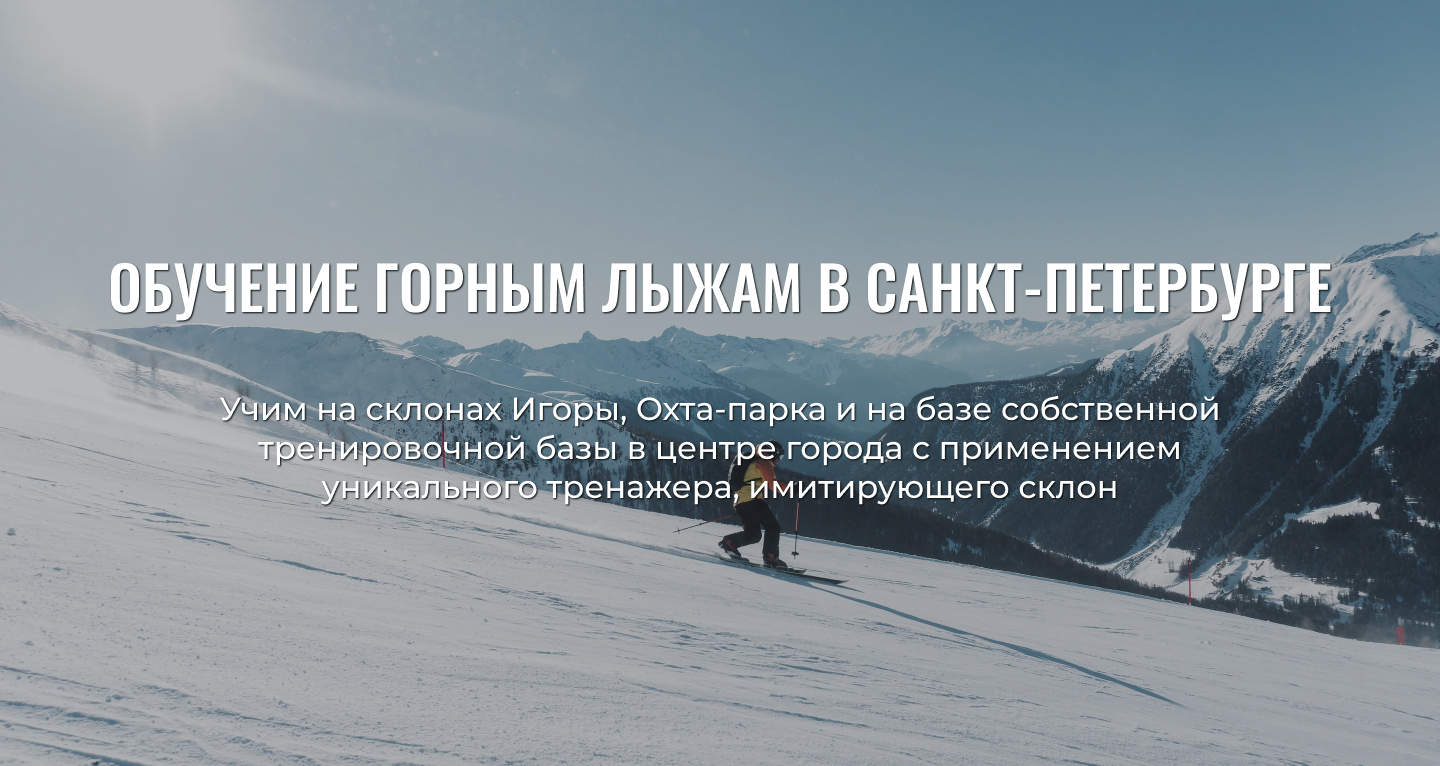
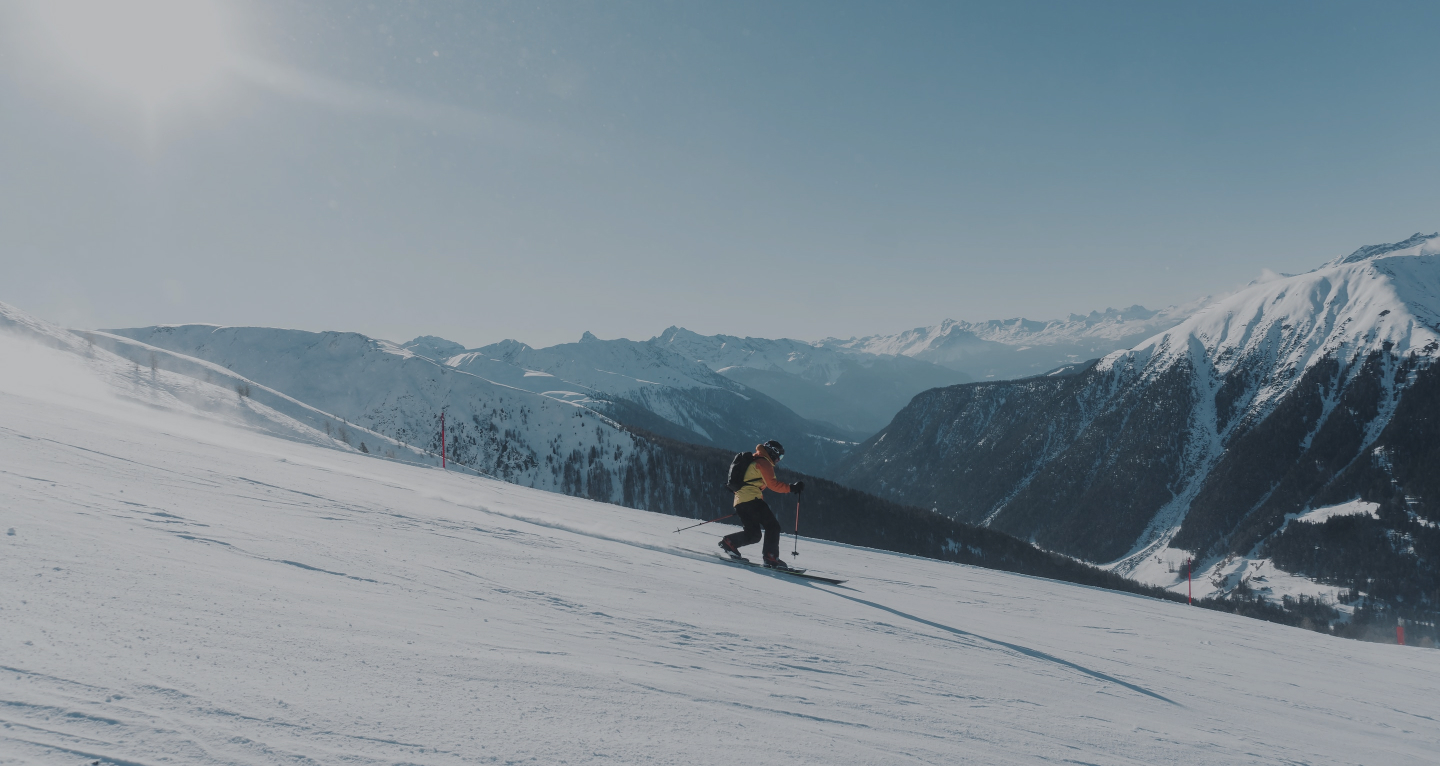
'Learning how to flex, header, description and go section styling. Addedand change imgs'

Changed region(s): [[0.0625, 0.3303, 0.9375, 0.4204], [0.1562, 0.5104, 0.8438, 0.6005], [0.2188, 0.6305, 0.7812, 0.6606]]

diff --git a/index.html b/index.html
@@ -12,9 +12,11 @@
 <body>
   <header class="header-main">
     <div class="container">
-      <nav class="nav-header">Начать учиться</nav>
-        <a href="##"><img src="##" alt="SKIING SCHOOL" class="header-logo"></a>
-        <p class="header-phone">+7 800 800-00-00</p>
+      <div class="header-wrap">
+        <a href="#"class="nav-btn">Начать учиться</a>
+          <a href="##"><img src="/images/logo.svg" alt="SKIING SCHOOL" class="header-logo"></a>
+          <p class="header-phone">+7 800 800-00-00</p>
+      </div>
     </div>
   </header>
 
@@ -23,73 +25,87 @@
 
   <section class="description">
     <div class="container">
-      <h1 class="description-lead"><strong>Обучение горным лыжам в Санкт-Петербурге</strong></h1>
-      <p class="description-text">Учим на склонах Игоры, Охта-парка и на базе собственной тренировочной базы в центре города с применением уникального тренажера, имитирующего склон</p>
+        <h1 class="description-lead"><strong>Обучение горным лыжам в Санкт-Петербурге</strong></h1>
+        <p class="description-text">Учим на склонах Игоры, Охта-парка и на базе собственной тренировочной базы в центре города с применением уникального тренажера, имитирующего склон</p>
     </div>
   </section>
 
 
   <section class="section-cons">
     <div class="container">
-      <h2 class="cons-lead">Учиться с нами увлекательно и эффективно</h2>
-        <ul>
-          <li>
-            <h3>Мы профи</h3>
-            <p>Наши инструктора - мастера спорта, призеры российских и международных стартов.</p>
-          </li>
-          <li>
-            <h3>2000+</h3>
-            <p>Довольных райдеров рассекает на заснеженных склонах. И это наша заслуга :)</p>
-          </li>
-          <li>
-            <h3>Учим 365 дней в году</h3>
-            <p>У нас есть крутой тренажер, имитирующий реальный склон площадью 50м. кв</p>
-          </li>
-          <li>
-            <h3>20+</h3>
-            <p>Наград завоевали наши ученики на регионалных и международных соревнованиях</p>
-          </li>
-          <li>
-            <h3>Подари лыжу</h3>
-            <p>Наш благотворительный проект - помогаем сиротам приобщиться к спорту и наладить жизнь</p>
-          </li>
-          <li>
-            <h3>Закрытый клуб</h3>
-            <p>Наши студенты попадают на закрытые мастер-классы и вечеринки</p>
-           </li>
-        </ul>
+      <div class="cons-wrap">
+        <h2 class="cons-lead">Учиться с нами увлекательно и эффективно</h2>
+          <ul>
+            <li>
+              <h3>Мы профи</h3>
+              <p>Наши инструктора - мастера спорта, призеры российских и международных стартов.</p>
+            </li>
+            <li>
+              <h3>2000+</h3>
+              <p>Довольных райдеров рассекает на заснеженных склонах. И это наша заслуга :)</p>
+            </li>
+            <li>
+              <h3>Учим 365 дней в году</h3>
+              <p>У нас есть крутой тренажер, имитирующий реальный склон площадью 50м. кв</p>
+            </li>
+            <li>
+              <h3>20+</h3>
+              <p>Наград завоевали наши ученики на регионалных и международных соревнованиях</p>
+            </li>
+            <li>
+              <h3>Подари лыжу</h3>
+              <p>Наш благотворительный проект - помогаем сиротам приобщиться к спорту и наладить жизнь</p>
+            </li>
+            <li>
+              <h3>Закрытый клуб</h3>
+              <p>Наши студенты попадают на закрытые мастер-классы и вечеринки</p>
+             </li>
+          </ul>
+      </div>
     </div>
   </section>
 
   <section class="section-go">
     <div class="container">
-      <h2>гоу! покорять склоны вместе</h2>
-        <a href="#" class="button-go">Начать учиться</a>
-        <ul>
-          <li> <img src="images/skiers1.png" alt="skiers1" class="go-pic"></li>
-          <li><img src="images/skiers2.png" alt="skiers2" class="go-pic"></li>
-          <li><img src="images/skiers3.png" alt="skiers3" class="go-pic"></li>
-          <li><img src="images/skiers4.png" alt="skiers4" class="go-pic"></li>
-        </ul>
+      <div class="go-wrap">
+        <div class="go-title-wrap">
+          <div class="go-title">
+            <h2>гоу! покорять склоны вместе</h2>
+          </div>
+        </div>
+        <div class="go-btn-wrap">
+          <a href="#" class="go-btn">Начать учиться</a>
+        </div>
+        <div class="go-visual">
+          <ul>
+            <li> <img src="images/skiers1.png" alt="skiers1" class="go-pic"></li>
+            <li><img src="images/skiers2.png" alt="skiers2" class="go-pic"></li>
+            <li><img src="images/skiers3.png" alt="skiers3" class="go-pic"></;>
+            <li><img src="images/skiers4.png" alt="skiers4" class="go-pic"></;>
+          </ul>
+        </div>
+      </div>
     </div>
   </section>
-</main>
 
+</main>
 
   <footer class="footer-style">
     <div class="container">
-      <a href="#" class="footer-button">Присоединяйся</a>
-      <ul class="social-logo">
-        <li><a href="##" alt="Twitter" target="_blank" class="twitter-logo"></a>
-        </li>
-        <li><a href="##" alt="Linked In" target="_blank" class="linkedin-logo"></a>
-        </li>
-        <li><a href="##" alt="Google Plus" target="_blank" class="googleplus-logo"></a>
-        </li>
-        <li><a href="##" alt="Facebook" target="_blank" class="facebook-logo"></a>
-        </li>
-      </ul>
-      <p class="copyright">copy+v copy+c © 2021</p>
+      <div class="footer-wrap">
+        <a href="#" class="footer-button">Присоединяйся</a>
+        <ul class="social-logo">
+          <li><a href="##" alt="Twitter" target="_blank" class="twitter-logo"></a>
+          </li>
+          <li><a href="##" alt="Linked In" target="_blank" class="linkedin-logo"></a>
+          </li>
+          <li><a href="##" alt="Google Plus" target="_blank" class="googleplus-logo"></a>
+          </li>
+          <li><a href="##" alt="Facebook" target="_blank" class="facebook-logo"></a>
+          </li>
+        </ul>
+        <p class="copyright">copy+v copy+c © 2021</p>
+      </div>
     </div>
   </footer>
 </body>

diff --git a/css/style.css b/css/style.css
@@ -44,16 +44,25 @@
   box-sizing: border-box;
 }
 
+
 body {
+  margin: 0;
   font-family: "Montserrat", sans-serif;
   font-style: normal;
   font-weight: 400;
   color: #060d10;
+
+}
+
+img {
+  display: block;
+  max-width: 100%;
 }
 
 .container {
   width: 1278px;
   margin: 0 auto;
+
 }
 
 h1 {
@@ -72,15 +81,38 @@ h1 {
 
 header {
   display: flex;
-  align-items:center;
   padding: 31px 0;
   font-weight: 500;
   background-color: #66d1ff;
 }
 
-.nav-header {
+header p{
+  margin: 0;
+  padding: 0;
+}
+.header-wrap {
+  display: flex;
+  justify-content: space-between;
+  align-items: center;
+}
+
+.nav-btn {
+  display: flex;
+  padding: 8px 41px;
+  font-family: 'Montserrat';
+  font-style: normal;
+  font-weight: 500;
   font-size: 24px;
+  color: #060d10;
+  text-decoration: none;
+  align-items: center;
   line-height: 29px;
+  background-color: #fff;
+  border: 2px solid #FFFFFF;
+  border-radius: 4px;
+
+
+
 }
 
 .header-phone {
@@ -92,25 +124,28 @@ header {
 /* Description */
 
 .description {
+  text-align: center;
   padding: 240px 0 260px;
   color: #fff;
   font-weight: 500;
-  align-items: center;
-  text-align: center;
   background-color: #b6abab;
+  background-image: url('../images/description.jpg');
+  background-repeat: no-repeat;
+  background-size: cover;
+  background-position: center center;
 }
 
-/* .description-lead {
 
-
-} */
+.description-lead {
+  margin-top: 0;
+  margin-bottom: 60px;
+}
 
 .description-text {
-  margin: 60px 190px 0;
+  margin-bottom: 0;
   font-family: 'Montserrat';
   font-size: 32px;
   line-height: 39px;
-  display: flex;
   text-shadow: 1px 1px 2px #060d10;
 
 }
@@ -119,7 +154,7 @@ header {
 .section-cons {
   padding: 170px 0;
   font-style: normal;
-  background-color: #66d1ff;
+  background-color: #fff;
 }
 
 .cons-lead {
@@ -148,12 +183,22 @@ header {
   opacity: .8;
 }
 
+.section-cons ul {
+  padding: 0;
+  margin: 0;
+  list-style: none;
+}
+
 /* Go section */
 
 .section-go {
   padding: 170px 0 180px;
   text-align: center;
-  background-color: #b6abab;
+  background-color: #fff;
+  background-image: url('../images/go-background.png');
+  background-repeat: no-repeat;
+  background-size: cover;
+  background-position: center center;
 }
 
 .section-go h2 {
@@ -162,19 +207,49 @@ header {
   font-size: 48px;
   line-height: 80px;
   text-transform: uppercase;
+  margin: 0;
+  padding: 0;
 }
 
-.button-go {
+.section-go ul {
+  margin: 0;
+  padding: 0;
+  list-style: none;
+}
+
+.go-wrap {
+  display: flex;
+  flex-direction: column;
+}
+
+.go-title{
+  margin-top: 0;
+  margin-bottom: 60px;
+}
+
+.go-btn {
+  position: absolute;
+  display: flex;
+  padding: 20px 107px 22px 108px;
+  margin-top: 0;
+  margin-bottom: 0;
+  font-family: 'Montserrat';
+  font-style: normal;
   font-weight: 500;
   font-size: 36px;
   line-height: 44px;
-  display: flex;
+  color: #060d10;
+  text-decoration: none;
+  align-items: center;
+  line-height: 29px;
+  background-color: #fff;
+  border: 3px solid #060D10;
+  border-radius: 4px;
 }
 
-.go-pic {
-  width: 100px;
-  height: 100px;
-  object-fit: cover;
+.go-visual {
+  display: flex;
+  margin-top: 130px;
 }
 
 /* Footer */
@@ -186,6 +261,12 @@ header {
   font-weight: 500;
   background-color: #000;
   color: #fff;
+}
+
+.footer-style ul{
+  margin: 0;
+  padding: 0;
+  list-style: none;
 }
 
 .footer-button {
